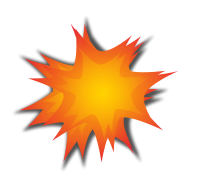
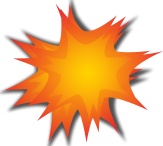
Enhanced game and graphics

diff --git a/games/cute-invader/__init__.py b/games/cute-invader/__init__.py
@@ -16,6 +16,8 @@ from Game import Game
 class Menu(Game):
 
     def start(self):
+        self.ufo_score=0
+        self.starship_score=0
         return
 
     def loop(self):
@@ -33,8 +35,8 @@ class Menu(Game):
         while True:
 
           if ufo_movement <= 0:
-              ufo_direction=random.choice((-1,1))
-              ufo_movement=random.randint(50,300)
+              ufo_direction=random.choice((-2,2))
+              ufo_movement=random.randint(30,150)
 
           new_ufo_x=ufo_x + ufo_direction
           if new_ufo_x > 0 and new_ufo_x < self.DISPLAY.width - self.IMAGES["ufo"].get_width():
@@ -52,8 +54,8 @@ class Menu(Game):
 
           if starship=="firing":
               self.DISPLAY.print_image(self.IMAGES["missile"],missile_x,missile_y)
-              missile_y=missile_y-1
-              if missile_y==0:
+              missile_y=missile_y-2
+              if missile_y<=0:
                   starship="normal"
 
 
@@ -80,15 +82,37 @@ class Menu(Game):
           if new_starship_x > 0 and new_starship_x < self.DISPLAY.width - self.IMAGES["starship-"+starship].get_width():
               starship_x=new_starship_x
 
-
+# Missile hits UFO 
           if starship=="firing":
-              missile_rect=pygame.Rect((missile_x,missile_y,50,50))
-              if missile_rect.colliderect((ufo_x,ufo_y,200,100)):
-                  self.DISPLAY.print_image(self.IMAGES["explosion"],ufo_x,ufo_y)
+              missile_rect=pygame.Rect((missile_x+20,missile_y,32,32))
+              if missile_rect.colliderect((ufo_x,ufo_y,140,70)):
+                  self.DISPLAY.print_image(self.IMAGES["explosion"],missile_x,ufo_y)
                   self.DISPLAY.show()
+                  self.starship_score+=1
+                  self.show_score()
+                  starship="normal"
+                  ufo_x=random.randint(0, self.DISPLAY.width- self.IMAGES["ufo"].get_width())
+                  ufo_y=0
+              else:
+                  ufo_y=ufo_y+.6
+    
+# UFO hits spaceship
+          if ufo_y>self.DISPLAY.height-200:
+                  self.DISPLAY.print_image(self.IMAGES["explosion"],starship_x,starship_y)
+                  self.DISPLAY.show()
+                  self.ufo_score+=1
+                  self.show_score()
+                  starship="normal"
+                  ufo_x=random.randint(0, self.DISPLAY.width- self.IMAGES["ufo"].get_width())
+                  ufo_y=0
               
           self.wait(1)
 
+
+    def show_score(self):
+        self.DISPLAY.print_textbox("UFO:"+str(self.ufo_score)+" - STARSHIP:"+str(self.starship_score))
+        self.DISPLAY.show()
+        self.wait(3000)
 
 # Main
 def main(name, CONF, DISPLAY, CONTROLLER):
